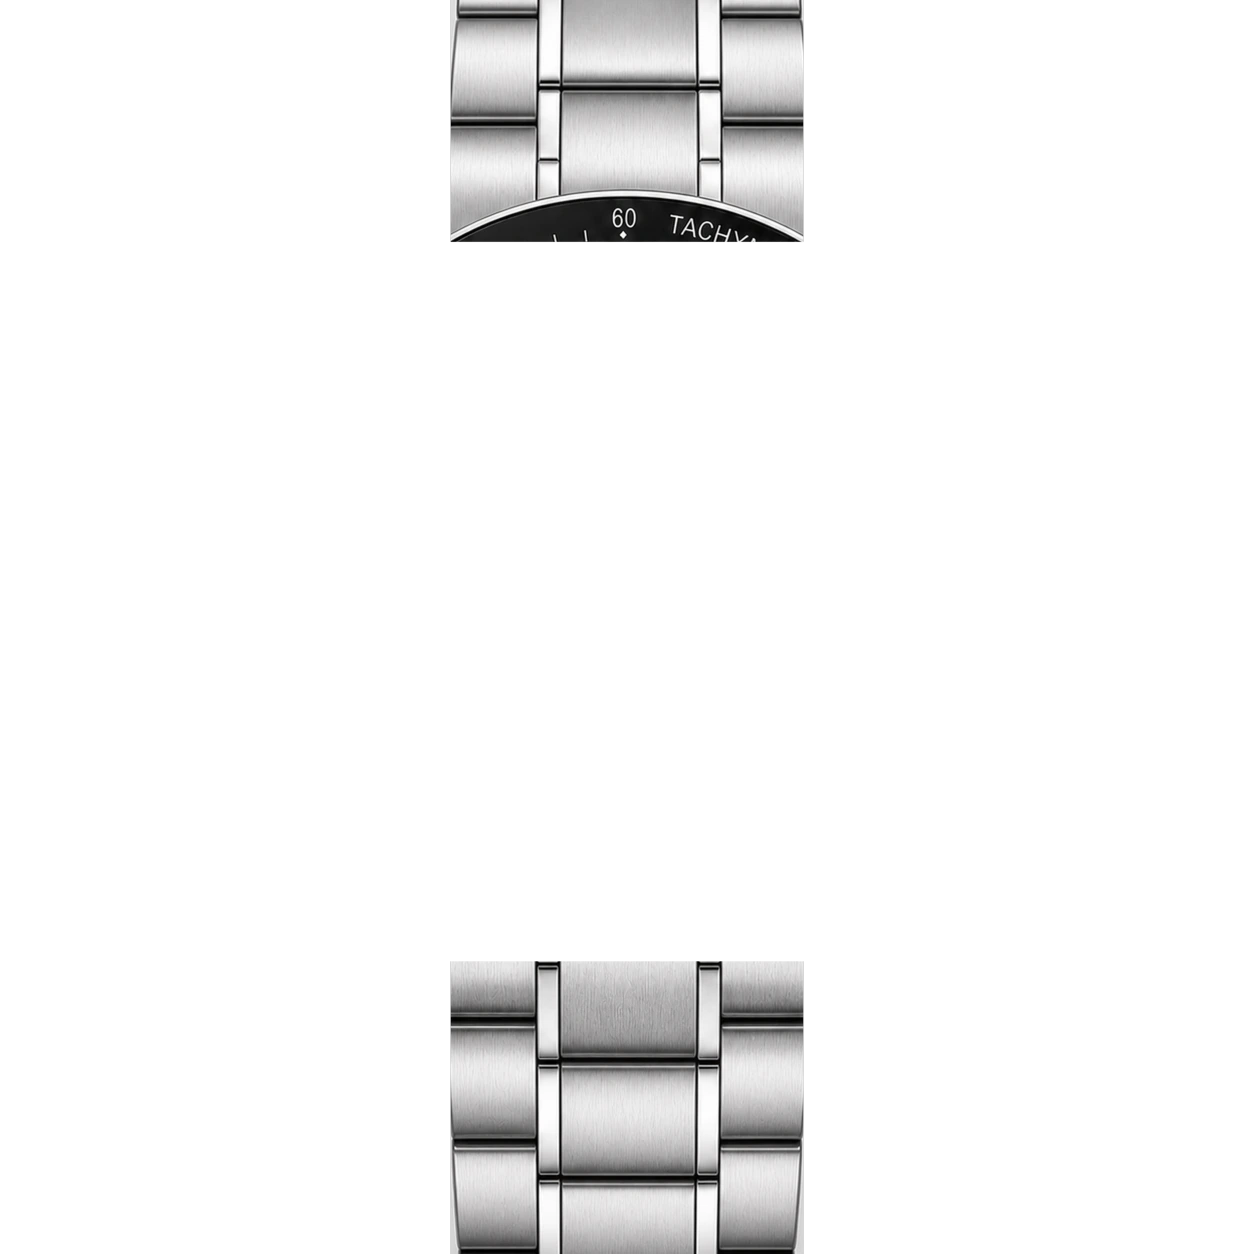
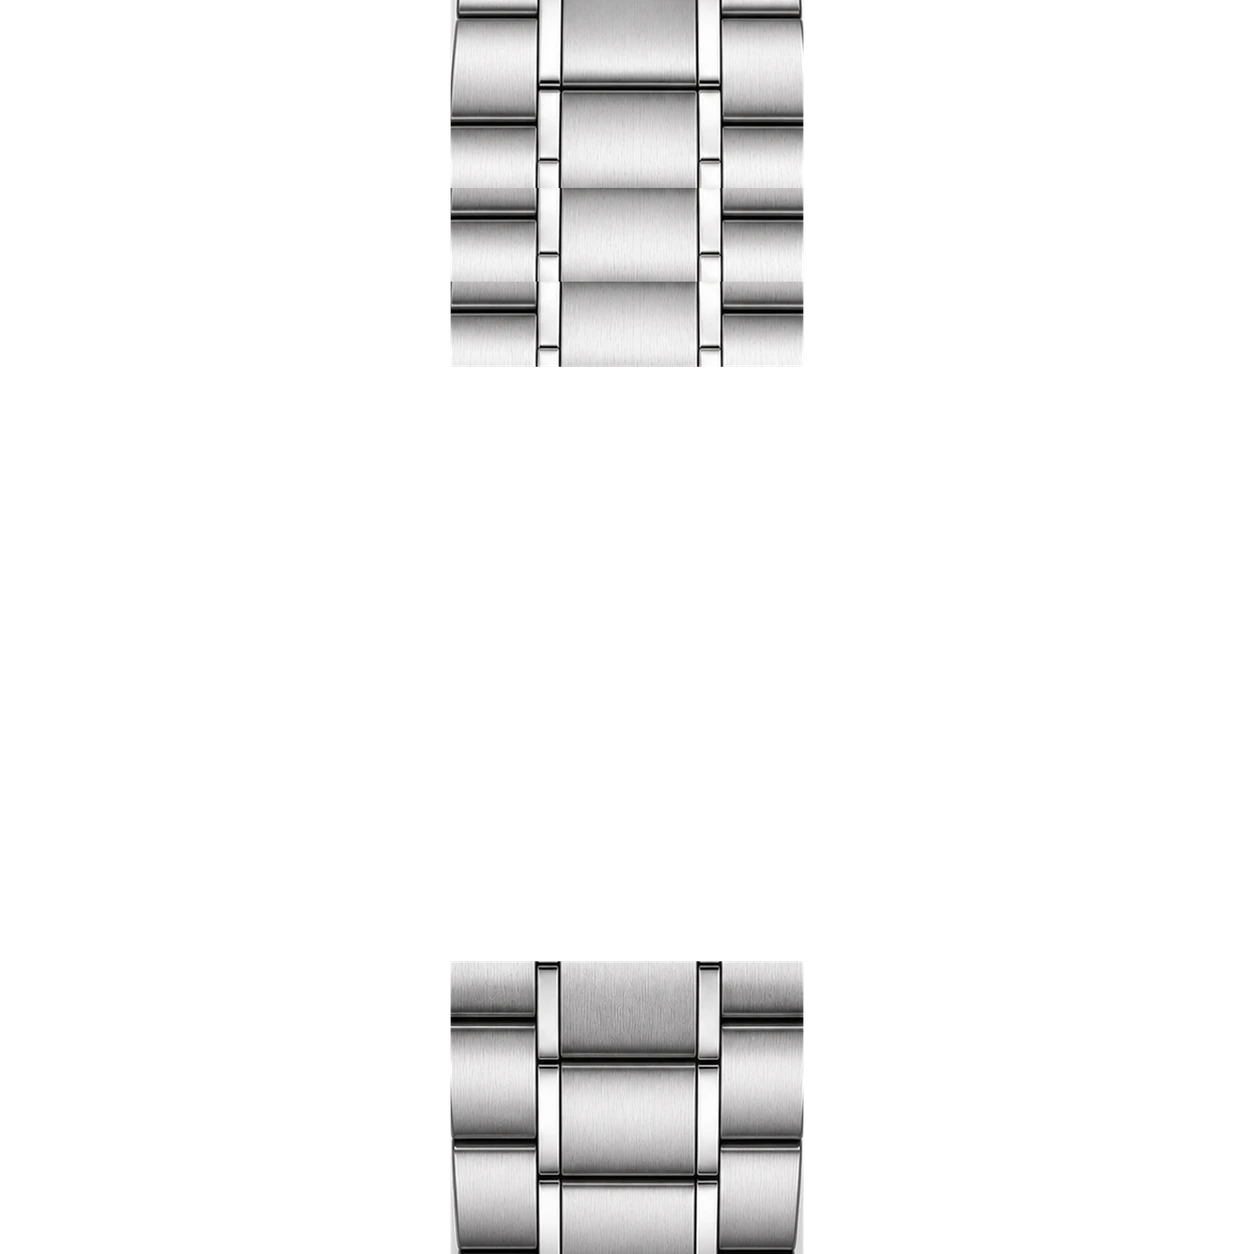
Brazalete del Lunar: máscara limpia (fuera el trozo de bisel que traía pegado) reconstruida con su propio patrón

Changed region(s): [[0.3421, 0.1244, 0.6531, 0.311]]

diff --git a/lunar.html b/lunar.html
@@ -391,7 +391,7 @@
   });
 
   /* El manifiesto manda: de él salen las rutas de todas las capas. */
-  fetch('/assets/img/lunar-config/manifest.json?v=2')
+  fetch('/assets/img/lunar-config/manifest.json?v=3')
     .then(function (r) { return r.json(); })
     .then(function (m) { M = m; normaliza(); pinta(); });
 })();

diff --git a/herramientas/limpiar_correa.py b/herramientas/limpiar_correa.py
@@ -1,0 +1,82 @@
+#!/usr/bin/env python3
+# -*- coding: utf-8 -*-
+"""
+Limpia la máscara de una correa/brazalete del configurador.
+
+El brazalete que venía en el paquete traía pegado un trozo de la caja
+con la que se fotografió (el arco negro del bisel con «TACHYMÈTRE»).
+Mientras la cabeza sea la misma no se nota, porque queda tapado; pero
+con una caja más pequeña ese negro asoma.
+
+Aquí se quita: se detecta el trozo de caja y se sustituye por más
+brazalete, clonado con su periodo real, y el borde inferior del tramo
+de arriba pasa a ser recto, para que entre bajo cualquier caja sin
+dejar hueco. Ni un píxel inventado: todo sale del propio brazalete.
+
+Uso: python3 limpiar_correa.py <capa.png> <salida.png>
+"""
+from PIL import Image
+import numpy as np
+import sys
+
+
+def periodo(banda, minimo, maximo):
+    """Cada cuántas filas se repite el dibujo del brazalete.
+
+    El rango se acota al tamaño creíble de un eslabón (entre el 5% y el
+    22% del alto de la imagen): si se deja libre, la correlación se
+    engancha al rayado fino del cepillado y sale un periodo absurdo."""
+    filas = banda.mean(axis=(1, 2))
+    filas = filas - filas.mean()
+    mejor, punto = -2.0, None
+    for p in range(minimo, min(maximo, len(filas)//2)):
+        v = np.corrcoef(filas[:-p], filas[p:])[0, 1]
+        if v > mejor:
+            mejor, punto = v, p
+    return punto
+
+
+def limpia(entrada, salida):
+    im = Image.open(entrada).convert('RGBA')
+    a = np.asarray(im).astype(int).copy()
+    alto, ancho = a.shape[:2]
+    alfa, lum = a[:, :, 3] > 128, a[:, :, :3].mean(axis=2)
+
+    # el trozo de caja: filas con MUCHO negro seguido (el bisel), no las
+    # sombras finas entre eslabones
+    cols_all = np.flatnonzero(alfa.any(axis=0))
+    xa, xb = int(cols_all.min()), int(cols_all.max())+1
+    # el bisel es una banda negra que cruza casi todo el ancho; las
+    # sombras entre eslabones son finas y no llegan ni a la mitad
+    frac = ((alfa & (lum < 90))[:, xa:xb]).mean(axis=1)
+    sucias = np.flatnonzero(frac > 0.6)
+    sucias = sucias[sucias < alto//2]          # solo el tramo de arriba
+    if not len(sucias):
+        print('sin restos de caja'); return
+    y0, y1 = int(sucias.min()), int(sucias.max())
+
+    # ancho del brazalete (donde de verdad hay metal)
+    cols = np.flatnonzero(alfa[:y0-40].any(axis=0))
+    x0, x1 = int(cols.min()), int(cols.max())+1
+
+    limpio_hasta = y0 - int(alto*0.02)         # última fila de fiar
+    P = periodo(a[max(0, limpio_hasta-int(alto*0.35)):limpio_hasta, x0:x1, :3].astype(float),
+                int(alto*0.05), int(alto*0.22))
+    hasta = min(alto//2, y1 + int(alto*0.10))  # se prolonga bien bajo la caja
+
+    for y in range(limpio_hasta, hasta):
+        origen = y
+        while origen >= limpio_hasta:
+            origen -= P
+        a[y, x0:x1, :3] = a[origen, x0:x1, :3]
+        a[y, x0:x1, 3] = 255
+        a[y, :x0, 3] = 0
+        a[y, x1:, 3] = 0
+
+    Image.fromarray(a.astype('uint8'), 'RGBA').save(salida)
+    print(f'{entrada.split("/")[-1]}: quitado el trozo de caja (filas {y0}–{y1}), '
+          f'brazalete prolongado hasta {hasta} con periodo {P}')
+
+
+if __name__ == '__main__':
+    limpia(sys.argv[1], sys.argv[2])
